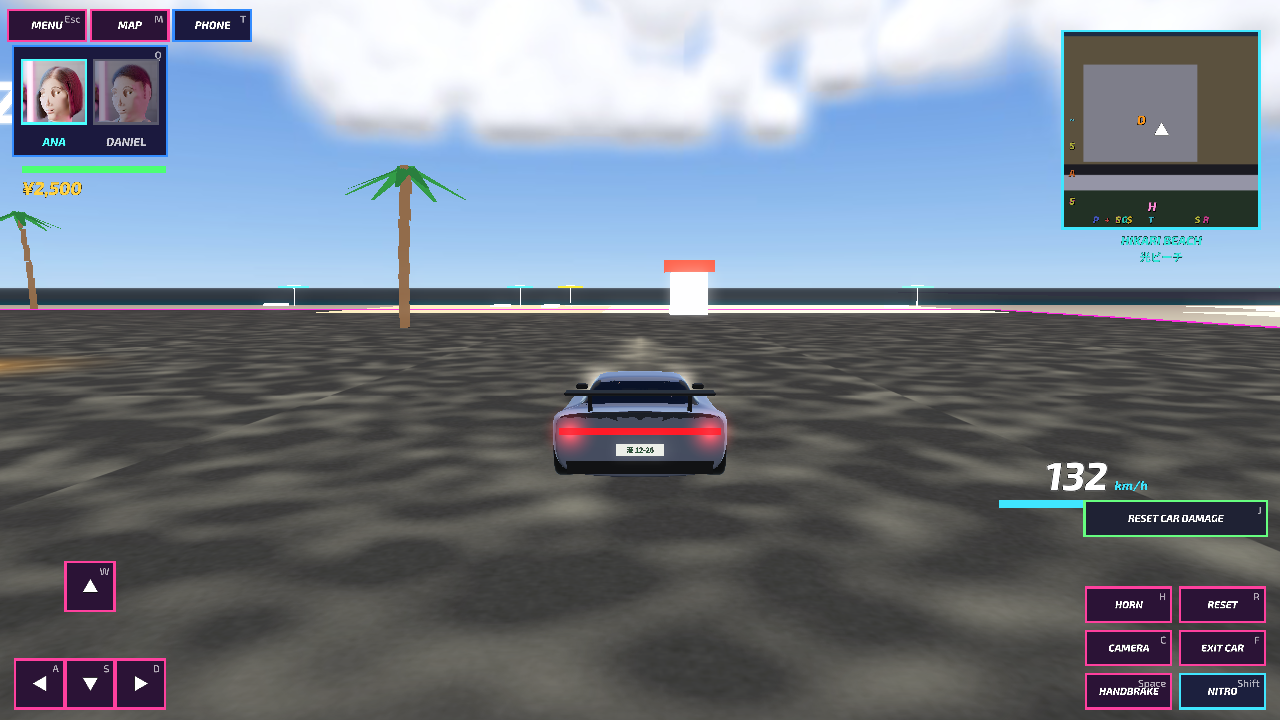
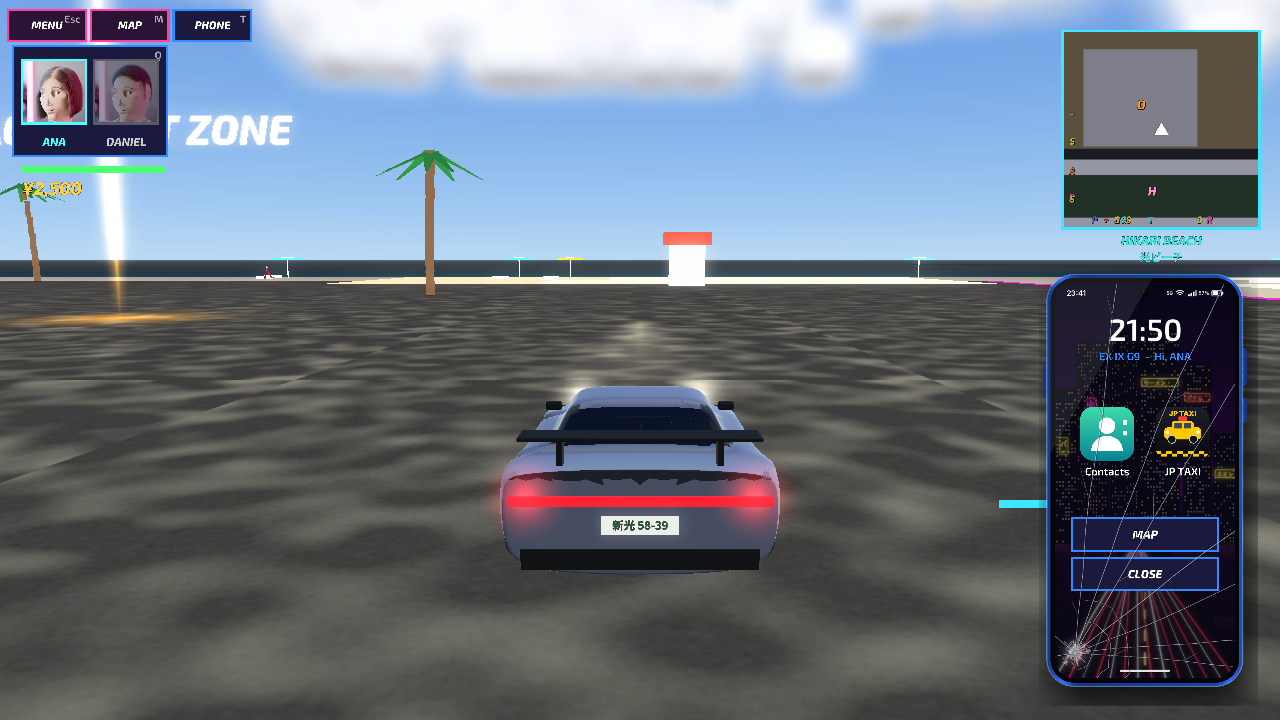
v1.0.1: phones work while driving, swap with character; new key art; FS_WINSIZE test override

diff --git a/test/phone.py b/test/phone.py
@@ -77,11 +77,11 @@ SUF = os.environ.get("FS_SUF", "")
 PLAN = [
     (0.2, lambda: None), (6.0, lambda: None),
     (0.1, lambda: app.show_title()), (0.3, lambda: None), (0.1, lambda: app.show_menu()), (0.3, lambda: None),
-    (0.1, lambda: app.start_game(None)), (0.6, lambda: sim(4.0)),
+    (0.1, lambda: app.start_game(None)), (0.6, lambda: sim(9.0)),
     (0.1, lambda: G().toggle_phone()), (0.2, lambda: shot("phone_ana_fixed" + SUF)),
     (0.1, lambda: G().phone_screen("contacts")), (0.2, lambda: shot("phone_contacts_fixed" + SUF)),
     (0.1, lambda: G().phone_screen("taxi")), (0.2, lambda: shot("phone_taxi_fixed" + SUF)),
-    (0.1, lambda: G().phone_screen("home")), (0.1, lambda: G().switch_char()), (0.1, lambda: sim(1.0)), (0.2, lambda: shot("phone_daniel_fixed" + SUF)),
+    (0.1, lambda: G().phone_screen("home")), (0.1, lambda: G().switch_char()), (0.1, lambda: sim(1.0)), (0.2, lambda: shot("phone_daniel_fixed" + SUF)), (0.1, lambda: G().phone_screen("contacts")), (0.2, lambda: shot("phone_daniel_contacts_fixed" + SUF)),
     (0.1, lambda: G().toggle_phone()), (0.1, lambda: G().switch_char()), (0.1, lambda: sim(1.0)),
     (0.1, lambda: G().enter_car(G().own)), (0.1, lambda: sim(2.0, lambda: drive(1.0, 0.0))), (0.1, lambda: G().toggle_phone()),
     (0.1, lambda: sim(1.0, lambda: drive(1.0, 0.0))), (0.2, lambda: shot("phone_driving_fixed" + SUF)), (0.1, stop_input),

diff --git a/fs_game.py b/fs_game.py
@@ -821,7 +821,7 @@ class Game:
             btn("BACK", lambda: self.phone_screen("home"), 0.81)
         if who == "ana":       # cracked glass drawn over everything, thin and translucent so the app text stays readable
             cr = OnscreenImage(parent=root, image=T("phone_ana_crack.png"), scale=(PW / 2, 1, PH / 2)); cr.set_transparency(TransparencyAttrib.M_alpha)
-            cr.set_color_scale(1, 1, 1, 0.75); cr.set_bin("gui-popup", 80)
+            cr.set_color_scale(1, 1, 1, 0.95); cr.set_bin("gui-popup", 80)
         self.phone.items = items; self.phone.sel = 0
         self.refresh_buttons()
 
@@ -1623,7 +1623,6 @@ class Game:
         self.arsenal.update(dt)
         self.pop_t -= dt
         if self.pop_t <= 0: self.pop_t = 0.5; self.populate()
-        if self.phone and self.pcar: self.toggle_phone()
         self.world.update(dt, self.time)
         for m in self.markers:
             if "np" in m: m["np"].set_h(self.time * 30)

diff --git a/tools/phone_game_tex.py b/tools/phone_game_tex.py
@@ -6,7 +6,7 @@ OUTG = '/workspace/fireout-shine/assets/tex/'
 def wall_base(wall):
     img = wall.resize((SW, SH)).convert("RGBA")
     dark = Image.new("RGBA", (SW, SH), (6, 6, 14, 150)); img.alpha_composite(dark)      # dim so in-game app text stays readable
-    status_bar(img)
+    status_bar(img, time=" ")
     ImageDraw.Draw(img).rounded_rectangle([SW/2-150, SH-50, SW/2+150, SH-38], 6, fill=(255, 255, 255, 220))
     return img
 meta = {}

diff --git a/fireout_shine.py b/fireout_shine.py
@@ -44,6 +44,8 @@ load-display pandagl
 want-pstats false
 gl-coordinate-system default
 """)
+if os.environ.get("FS_WINSIZE"):       # test/QA override, e.g. FS_WINSIZE=1920x1080
+    loadPrcFileData("", "win-size " + os.environ["FS_WINSIZE"].replace("x", " "))
 if os.path.exists(_icon):
     loadPrcFileData("", "icon-filename " + Filename.from_os_specific(_icon).get_fullpath())
 
